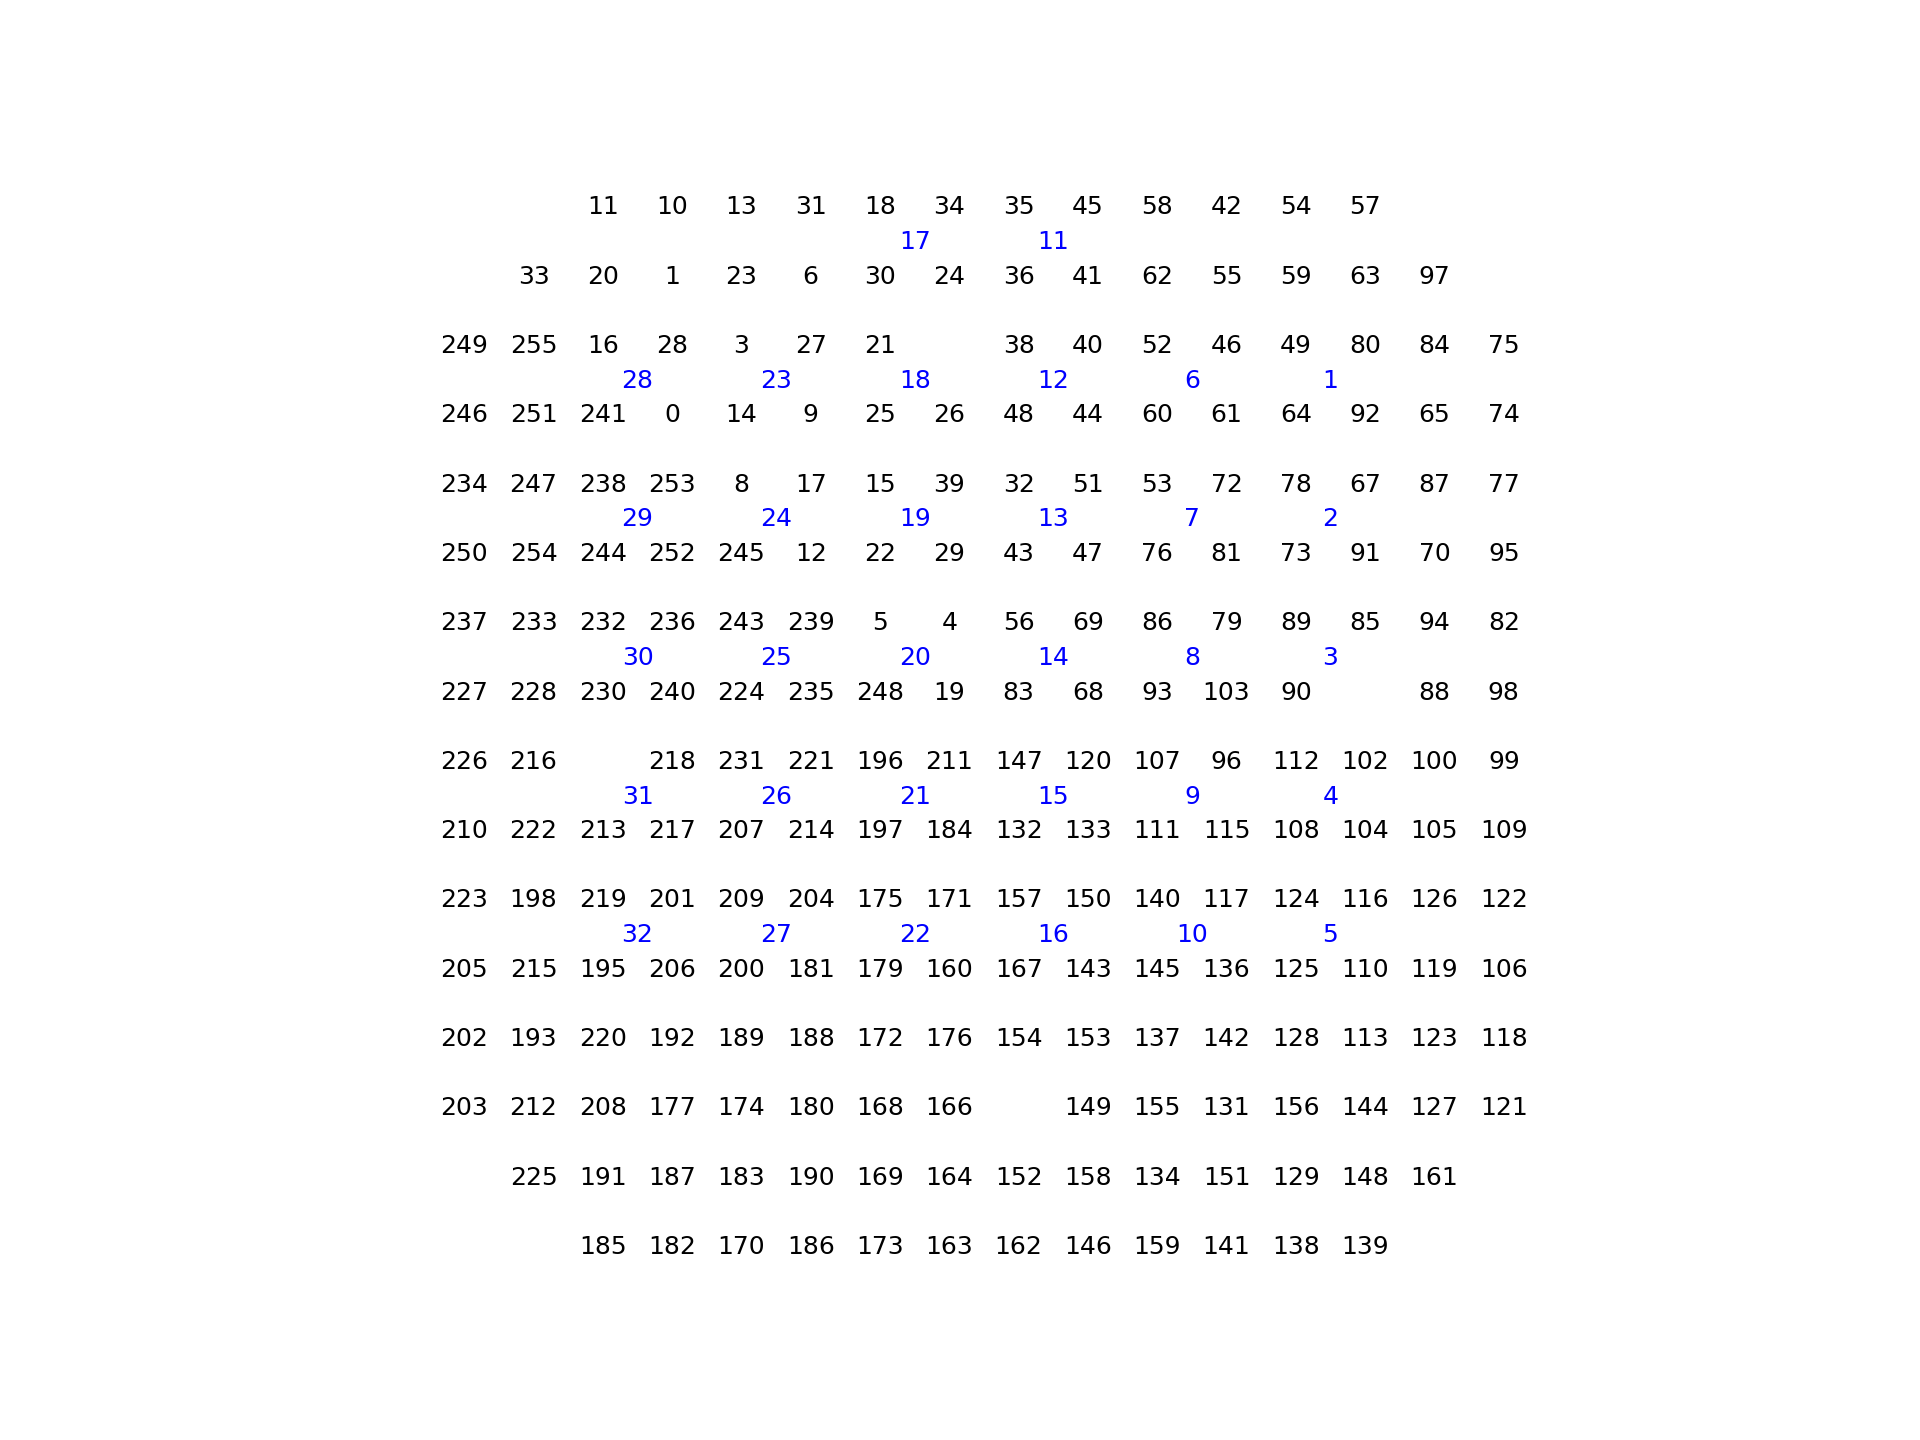
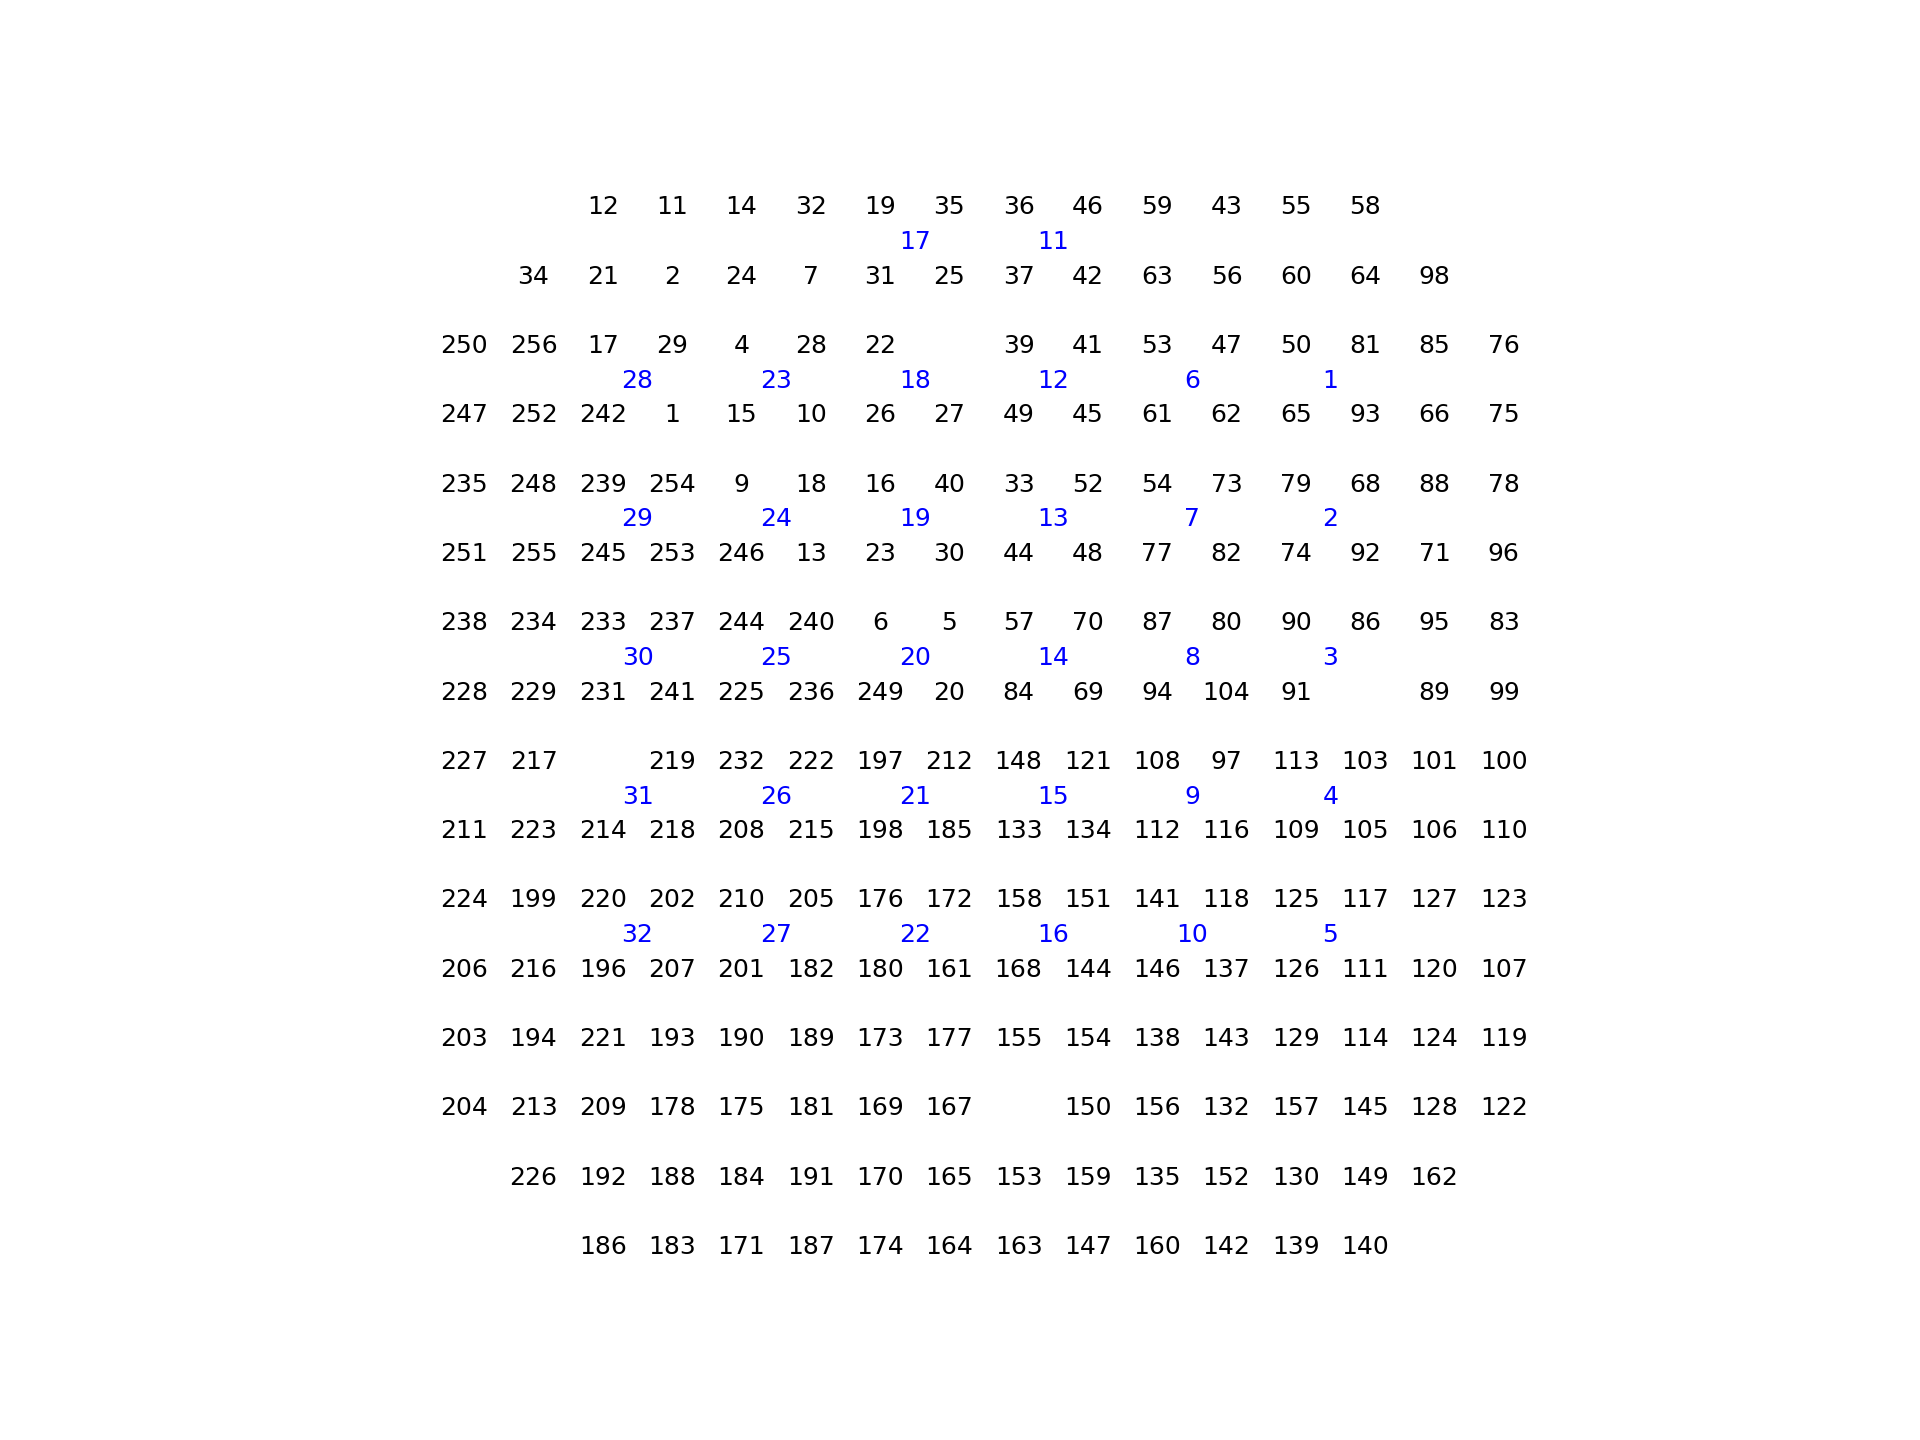
input indices or channel numbers

diff --git a/aopy/visualization/base.py b/aopy/visualization/base.py
@@ -393,15 +393,19 @@ def annotate_spatial_map(elec_pos, text, color, fontsize=6, ax=None, **kwargs):
         ax = plt.gca()
     return ax.annotate(text, elec_pos, color=color, fontsize=fontsize, ha='center', va='center', **kwargs)
     
-def annotate_spatial_map_channels(acq_ch=None, drive_type='ECoG244', theta=0, color='k', fontsize=6, 
-                                  print_zero_index=True, ax=None, **kwargs):
+def annotate_spatial_map_channels(acq_idx=None, acq_ch=None, drive_type='ECoG244', theta=0, color='k', fontsize=6, 
+                                  ax=None, **kwargs):
     '''
-    Given zero-indexed acq_ch, prints zero- or one-indexed channels on top of a spatial map.
+    Given acq_idx (indices) or acq_ch (channel numbers), prints either indices or channel numbers
+    on top of a spatial map.
 
     Args:
-        acq_ch ((nacq,) array or list, optional): If None (the default), all acquisition channels 
-            will be annotated. Otherwise, only the provided acquisition channels (zero-indexed) will
-            be annotated.
+        acq_idx ((nacq,) array or list, optional): If provided, specifies the acquisition indices to
+            be annotated. If neither acq_idx nor acq_ch is provided, all channel numbers will be 
+            annotated by default.
+        acq_ch ((nacq,) array or list, optional): If provided, specifies the acquisition channel numbers to
+            be annotated. If neither acq_idx nor acq_ch is provided, all channel numbers will be 
+            annotated by default.
         drive_type (str, optional): Drive type of the channels to plot. See :func:`aopy.data.base.load_chmap`.
         color (str, optional): color to display the channels. Default 'k'.
         fontsize (int, optional): the fontsize to make the text. Defaults to 6.
@@ -415,32 +419,36 @@ def annotate_spatial_map_channels(acq_ch=None, drive_type='ECoG244', theta=0, co
         .. code-block:: python
 
             aopy.visualization.plot_ECoG244_data_map(np.zeros(256,), cmap='Greys')
-            aopy.visualization.annotate_spatial_map_channels(acq_ch=None, drive_type='ECoG244', color='k')
-            aopy.visualization.annotate_spatial_map_channels(acq_ch=None, drive_type='Opto32', color='b', print_zero_index=False)
+            aopy.visualization.annotate_spatial_map_channels(drive_type='ECoG244', color='k')
+            aopy.visualization.annotate_spatial_map_channels(drive_type='Opto32', color='b')
             plt.axis('off')
 
         .. image:: _/images/ecog244_opto32.png
 
     Note: 
-        The acq_ch returned from `func::aopy.data.load_chmap` are 1-indexed lists of acquisition 
-        channels connected to electrodes. However, the acq_ch input to this function is always 
-        0-indexed (or None for all channels). The print_zero_index argument controls in what format the
-        channels are printed onto the figure.
+        The acq_ch returned from `func::aopy.data.load_chmap` are generally 1-indexed lists of acquisition 
+        channels connected to electrodes. In python, however, the acquisition indices start at 0, so we
+        give the option to select channels based on either an index (acq_idx) or a channel number (acq_ch).
     '''
     if ax is None:
         ax = plt.gca()
-    if acq_ch is not None:
-        acq_ch = np.array(acq_ch)+1 # Change from 0 to 1 index
+    if acq_idx is not None and acq_ch is not None:
+        raise ValueError("Please specify only one of acq_idx or acq_ch.")
+    if acq_idx is not None:
+        acq_ch = np.array(acq_idx)+1 # Change from index to ch numbers
+        print("Annotating acquisition indices")
+    else:
+        print("Annotating acquisition channel numbers")
 
-    # Get 1-indexed channel map
+    # Get channel map (overwrite acq_ch if it was supplied to get the correct shape acq_ch)
     elec_pos, acq_ch, elecs = load_chmap(drive_type, acq_ch, theta)
 
     # Annotate each channel
     if isinstance(color, str) or len(color) < len(elec_pos):
         color = np.repeat(np.array(color), len(elec_pos))
     for pos, ch, color in zip(elec_pos, acq_ch, color):
-        if print_zero_index:
-            ch = ch - 1
+        if acq_idx is not None:
+            ch = ch - 1 # change back from channel numbers to indices
         annotate_spatial_map(pos, ch, color, fontsize, ax, **kwargs)
 
 def plot_image_by_time(time, image_values, ylabel='trial', cmap='bwr', ax=None):

diff --git a/tests/test_visualization.py b/tests/test_visualization.py
@@ -104,18 +104,26 @@ class NeuralDataPlottingTests(unittest.TestCase):
 
     def test_annotate_spatial_map(self):
         plot_ECoG244_data_map(np.zeros(256,), cmap='Greys')
-        annotate_spatial_map_channels(acq_ch=None, drive_type='ECoG244', color='k')
-        annotate_spatial_map_channels(acq_ch=None, drive_type='Opto32', color='b', print_zero_index=False)
+        annotate_spatial_map_channels(drive_type='ECoG244', color='k')
+        annotate_spatial_map_channels(drive_type='Opto32', color='b')
         plt.axis('off')
         filename = 'ecog244_opto32.png'
         savefig(docs_dir, filename)
 
         plt.figure()
         plot_ECoG244_data_map(np.zeros(256,), cmap='Greys', theta=90)
-        annotate_spatial_map_channels(acq_ch=None, drive_type='ECoG244', color='k', theta=90)
-        annotate_spatial_map_channels(acq_ch=None, drive_type='Opto32', color='b', theta=90, print_zero_index=False)
+        annotate_spatial_map_channels(drive_type='ECoG244', color='k', theta=90)
+        annotate_spatial_map_channels(drive_type='Opto32', color='b', theta=90)
         plt.axis('off')
         filename = 'ecog244_opto32_theta90.png'
+        savefig(write_dir, filename)
+
+        plt.figure()
+        plot_ECoG244_data_map(np.zeros(256,), cmap='Greys', theta=90)
+        annotate_spatial_map_channels(acq_idx=[45,46,55,56], drive_type='ECoG244', color='k', theta=90)
+        annotate_spatial_map_channels(acq_ch=[11], drive_type='Opto32', color='b', theta=90)
+        plt.axis('off')
+        filename = 'ecog244_opto32_index_subset.png'
         savefig(write_dir, filename)
 
     def test_plot_image_by_time(self):
